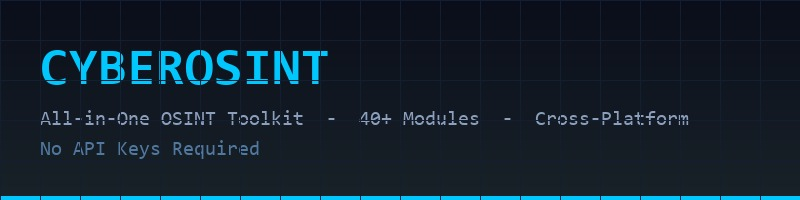
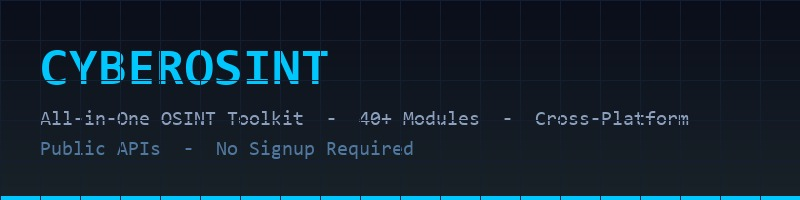
Fix BS claims - remove 'zero API keys', use 'Public APIs'

Changed region(s): [[0.2188, 0.69, 0.5312, 0.78], [0.0312, 0.69, 0.1875, 0.78]]

diff --git a/README.md b/README.md
@@ -14,7 +14,7 @@
 </p>
 
 <p align="center">
-  <b>All-in-One OSINT Toolkit</b> — 40+ reconnaissance modules, cross-platform, zero API keys.
+  <b>All-in-One OSINT Toolkit</b> — 40+ reconnaissance modules, cross-platform.
 </p>
 
 ---
@@ -22,7 +22,7 @@
 ## Features
 
 - **40+ modules** — IP, domains, social media, phone, Indian OSINT, data analysis, gaming lookups
-- **No API keys** — all modules use public/free sources
+- **Public APIs** — all modules use free/public sources, no signup required
 - **Cross-platform** — works on Windows, Android (Termux), Linux
 - **Live spinners** — real-time loading indicators for all network operations
 - **Auto-reporting** — JSON/TXT reports saved to organized directories